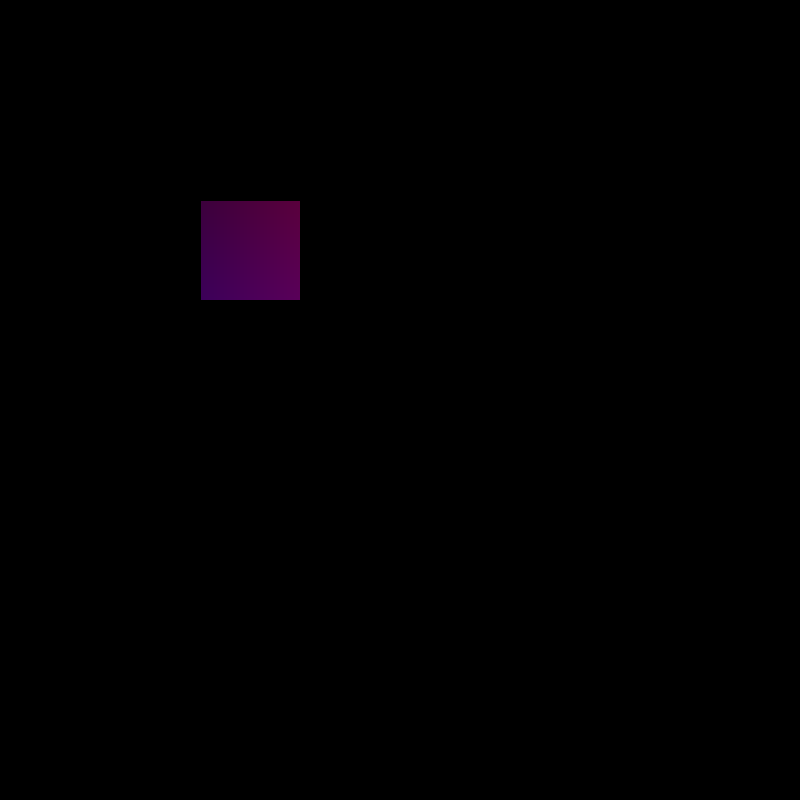
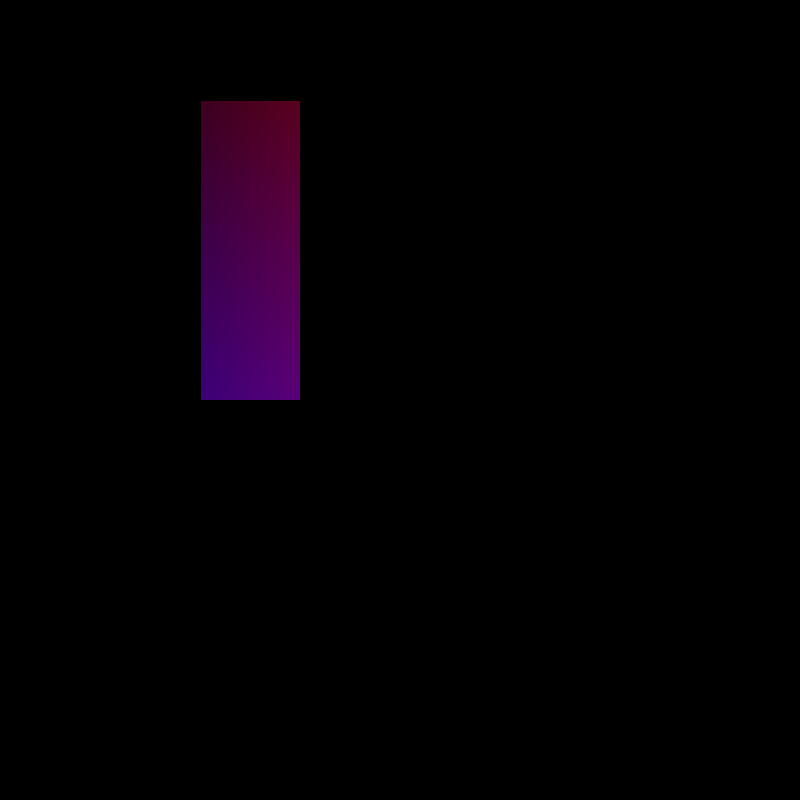
todo fix size

Changed region(s): [[0.25, 0.375, 0.375, 0.5], [0.25, 0.125, 0.375, 0.25]]

diff --git a/src/main.rs b/src/main.rs
@@ -15,7 +15,7 @@ fn triang(x: u32, y: u32) -> bool {
 }
 
 fn square(x: u32, y: u32) -> bool {
-    if (x > 200) & (x < 300) & (y > 200) & (y < 300) {
+    if (x > 200) & (x < 300) & (y > 100) & (y < 400) {
         true
     } else {
         false
@@ -87,6 +87,12 @@ struct LinePair {
     s_line: Line,
 }
 
+fn distatance(p1: &Vector, p2: &Vector, X: &Vector) -> f32 {
+    let dist = ((p2.y - p1.y) * X.x - (p2.x - p1.x) * X.y + p2.x * p1.y - p2.y * p1.x).abs()
+        / ((p2.y - p1.y).powi(2) + (p2.x - p1.x).powi(2)).sqrt();
+    dist
+}
+
 fn warpy<'a>(
     line_pairs: &'a mut Vec<LinePair>,
     source: &'a mut image::ImageBuffer<image::Rgb<u8>, Vec<u8>>,
@@ -113,18 +119,23 @@ fn warpy<'a>(
                     .perpendicular()
                     .mul(v / lp.s_line.q.dist2(lp.s_line.p).sqrt());
             let D = X_new - X;
-            let weight = 1.0;
+            let a = 0.001;
+            let p = 0;
+            let b = 2;
+            let lenght = ((lp.t_line.q - lp.t_line.p) * (lp.t_line.q - lp.t_line.p)).sqrt();
+            let dist = distatance(&lp.t_line.p, &lp.t_line.q, &X);
+            let weight = (lenght.powi(p) / (a + dist)).powi(b);
             dsum = dsum + D.mul(weight);
             weightsum += weight;
         }
         let X_new = X + dsum.mul(1.0 / weightsum);
         println!("{:?}", &X_new);
         // TODO: fix sizes
-        if (X_new.x <= 800.0) & (X_new.x >= 0.0) & (X_new.y <= 800.0) & (X_new.y >= 0.0) {
+        if (X_new.x <= 799.0) & (X_new.x >= 0.0) & (X_new.y <= 799.0) & (X_new.y >= 0.0) {
             let t_pixel = source.get_pixel(X_new.x.floor() as u32, X_new.y.floor() as u32);
             *pixel = t_pixel.clone();
         } else {
-            *pixel = image::Rgb([0, 0, 0]);
+            // *pixel = image::Rgb([0, 0, 0]);
         }
     }
 
@@ -167,22 +178,22 @@ fn main() {
     let mut lp = vec![
         LinePair {
             t_line: Line {
-                p: Vector { x: 200.0, y: 100.0 },
-                q: Vector { x: 200.0, y: 200.0 },
+                p: Vector { x: 400.0, y: 500.0 },
+                q: Vector { x: 400.0, y: 520.0 },
             },
             s_line: Line {
-                p: Vector { x: 200.0, y: 100.0 },
-                q: Vector { x: 220.0, y: 200.0 },
+                p: Vector { x: 200.0, y: 500.0 },
+                q: Vector { x: 200.0, y: 550.0 },
             },
         },
         LinePair {
             t_line: Line {
-                p: Vector { x: 100.0, y: 100.0 },
-                q: Vector { x: 100.0, y: 200.0 },
+                p: Vector { x: 400.0, y: 520.0 },
+                q: Vector { x: 500.0, y: 530.0 },
             },
             s_line: Line {
-                p: Vector { x: 200.0, y: 200.0 },
-                q: Vector { x: 300.0, y: 200.0 },
+                p: Vector { x: 200.0, y: 500.0 },
+                q: Vector { x: 200.0, y: 550.0 },
             },
         },
     ];
